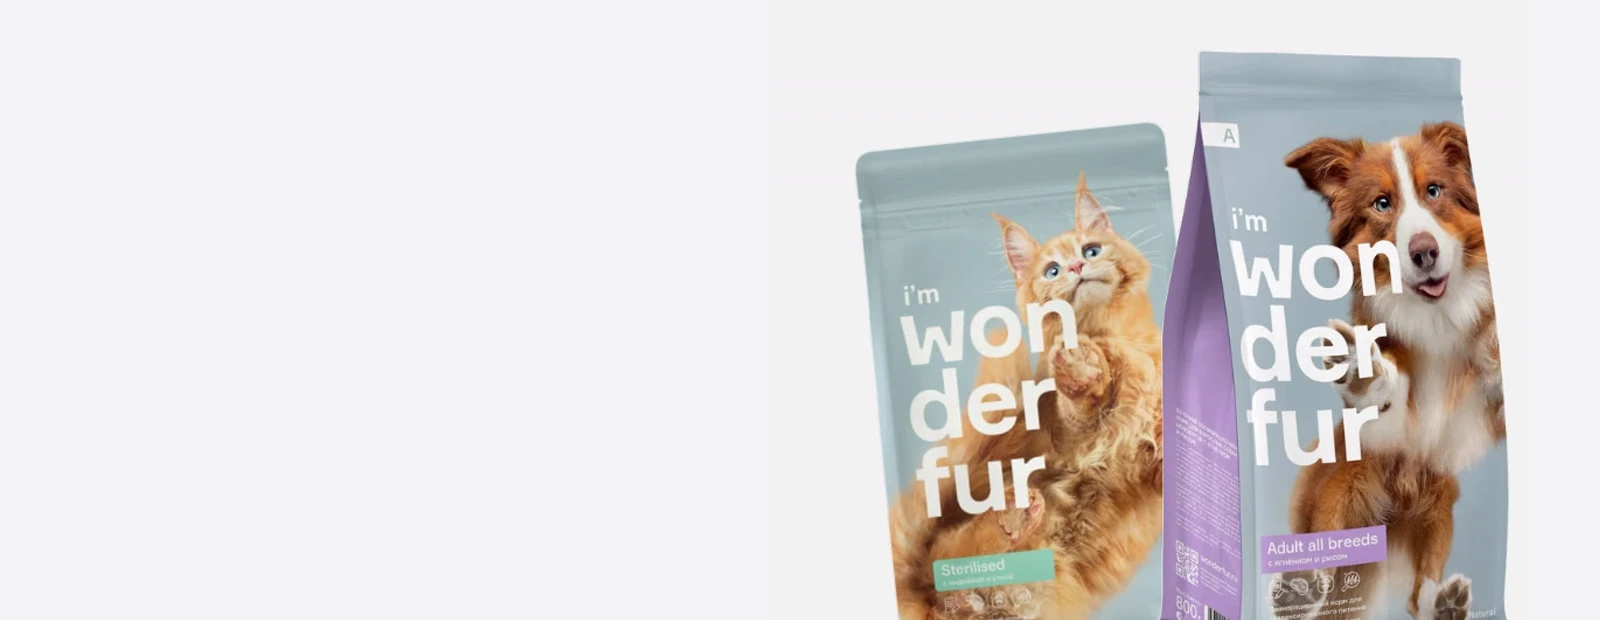
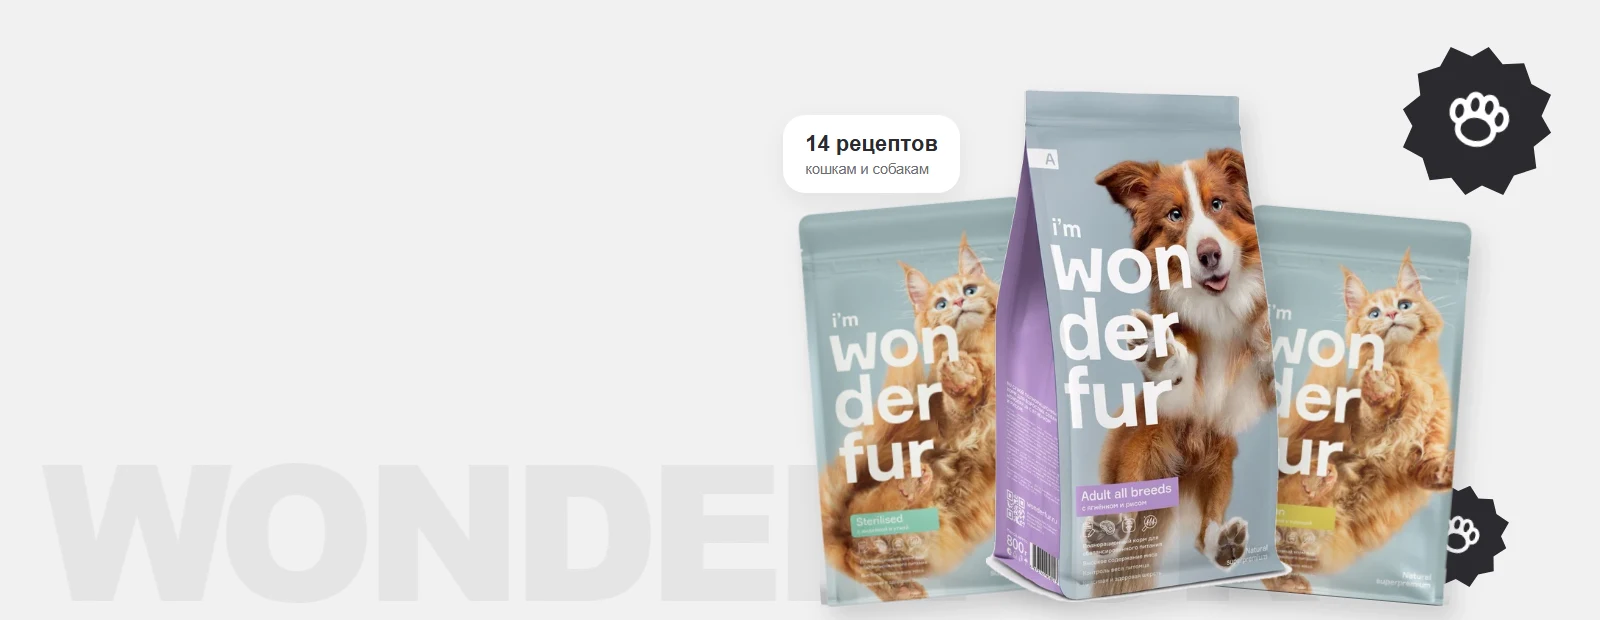
Обновить баннер в стиле листовки

diff --git a/design/hero-banner.html b/design/hero-banner.html
@@ -1,0 +1,8 @@
+<!doctype html><html lang="ru"><head><meta charset="utf-8"><style>
+*{box-sizing:border-box}html,body{margin:0;background:transparent;font-family:Arial,sans-serif}.banner{position:relative;overflow:hidden;background:#f1f1f1;color:#2b2b30}.desktop{width:1600px;height:620px}.mobile{width:780px;height:680px}.brand{position:absolute;font-weight:900;letter-spacing:-.06em;color:#2b2b30;opacity:.055;white-space:nowrap}.desktop .brand{font-size:190px;left:42px;bottom:-40px}.mobile .brand{font-size:105px;left:28px;bottom:-16px}.rosette{position:absolute;background:#2b2b30;filter:drop-shadow(6px 8px 8px rgba(0,0,0,.14));display:grid;place-items:center;clip-path:polygon(50% 0,61% 10%,75% 7%,82% 20%,96% 25%,92% 40%,100% 50%,90% 61%,94% 75%,80% 82%,75% 96%,60% 92%,50% 100%,39% 90%,25% 94%,18% 80%,4% 75%,8% 60%,0 50%,10% 39%,6% 25%,20% 18%,25% 4%,40% 8%)}.rosette svg{width:48%;height:48%;fill:none;stroke:#fff;stroke-width:8;stroke-linecap:round;stroke-linejoin:round}.desktop .r1{width:150px;height:150px;right:48px;top:46px;transform:rotate(9deg)}.desktop .r2{width:72px;height:72px;right:640px;bottom:64px;transform:rotate(-13deg)}.desktop .r3{width:102px;height:102px;right:92px;bottom:34px;transform:rotate(15deg)}.mobile .r1{width:88px;height:88px;right:28px;top:285px;transform:rotate(9deg)}.mobile .r2{width:62px;height:62px;left:30px;bottom:70px;transform:rotate(-13deg)}.mobile .r3{width:74px;height:74px;right:30px;bottom:38px;transform:rotate(15deg)}.mobile .card{display:none}.packs{position:absolute;display:flex;align-items:flex-end;justify-content:center}.packs img{display:block;width:auto;filter:drop-shadow(8px 13px 12px rgba(34,34,38,.18))}.desktop .packs{right:105px;bottom:18px;width:720px;height:550px}.desktop .cat1{height:402px;margin-right:-68px;transform:rotate(-5deg);z-index:1}.desktop .dog{height:515px;z-index:3}.desktop .cat2{height:394px;margin-left:-72px;transform:rotate(5deg);z-index:2}.mobile .packs{left:42px;right:30px;bottom:18px;height:370px}.mobile .cat1{height:258px;margin-right:-42px;transform:rotate(-5deg);z-index:1}.mobile .dog{height:344px;z-index:3}.mobile .cat2{height:252px;margin-left:-45px;transform:rotate(5deg);z-index:2}.card{position:absolute;background:#fff;border-radius:22px;color:#2b2b30;box-shadow:0 8px 24px rgba(0,0,0,.07);font-weight:700}.desktop .card{right:640px;top:115px;padding:16px 22px;font-size:22px}.mobile .card{left:30px;top:255px;padding:13px 17px;font-size:18px}.card small{display:block;margin-top:4px;font-size:.66em;font-weight:500;color:#6d6d72}
+</style></head><body><div id="root"></div><script>
+const q=new URLSearchParams(location.search), mobile=q.get('v')==='mobile';
+const base='../public/';
+const paw='<svg viewBox="0 0 100 100" aria-hidden="true"><ellipse cx="50" cy="62" rx="25" ry="20"/><ellipse cx="24" cy="40" rx="10" ry="14"/><ellipse cx="44" cy="28" rx="10" ry="14"/><ellipse cx="64" cy="29" rx="10" ry="14"/><ellipse cx="80" cy="43" rx="10" ry="14"/></svg>';
+document.querySelector('#root').innerHTML=`<div class="banner ${mobile?'mobile':'desktop'}"><div class="brand">WONDERFUR</div><div class="rosette r1">${paw}</div><div class="rosette r2">${paw}</div><div class="rosette r3">${paw}</div><div class="card">14 рецептов<small>кошкам и собакам</small></div><div class="packs"><img class="cat1" src="../../flyers-nateria-wonderfur/wf-cat-sterile-turkey-duck.webp"><img class="dog" src="../../flyers-nateria-wonderfur/wf-dog-lamb-rice.webp"><img class="cat2" src="../../flyers-nateria-wonderfur/wf-cat-kitten-turkey-chicken.webp"></div></div>`;
+</script></body></html>
